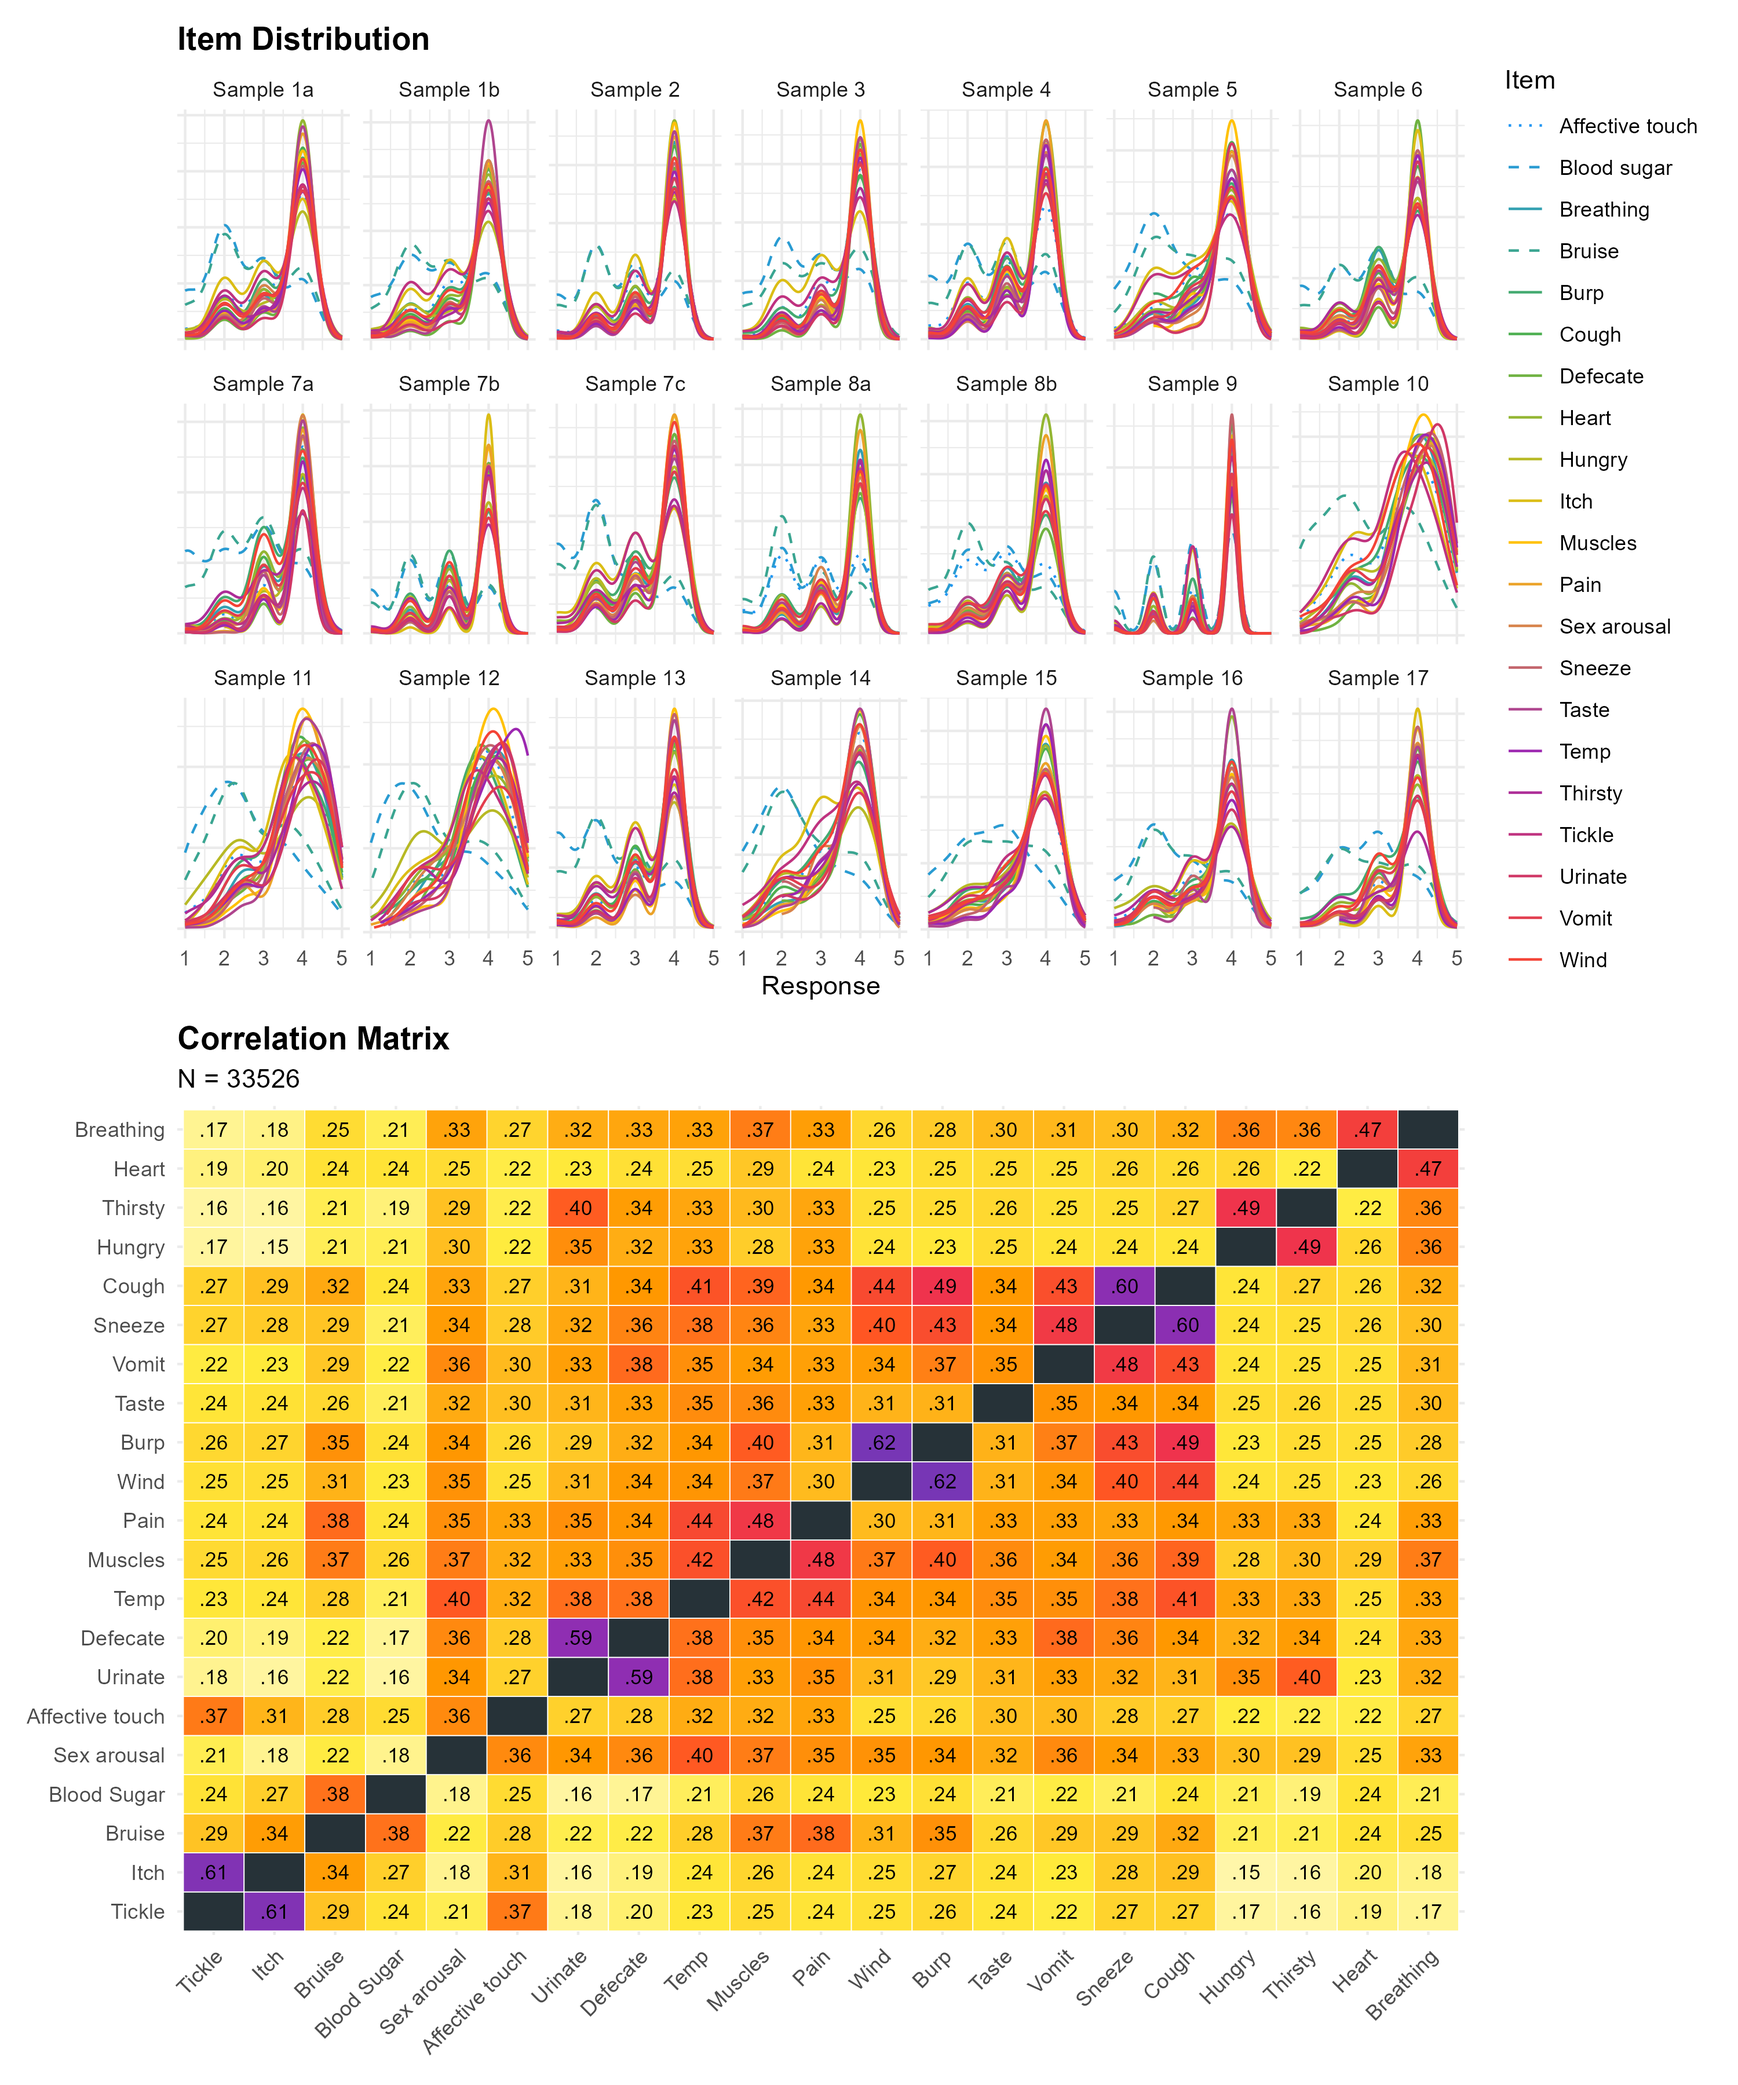
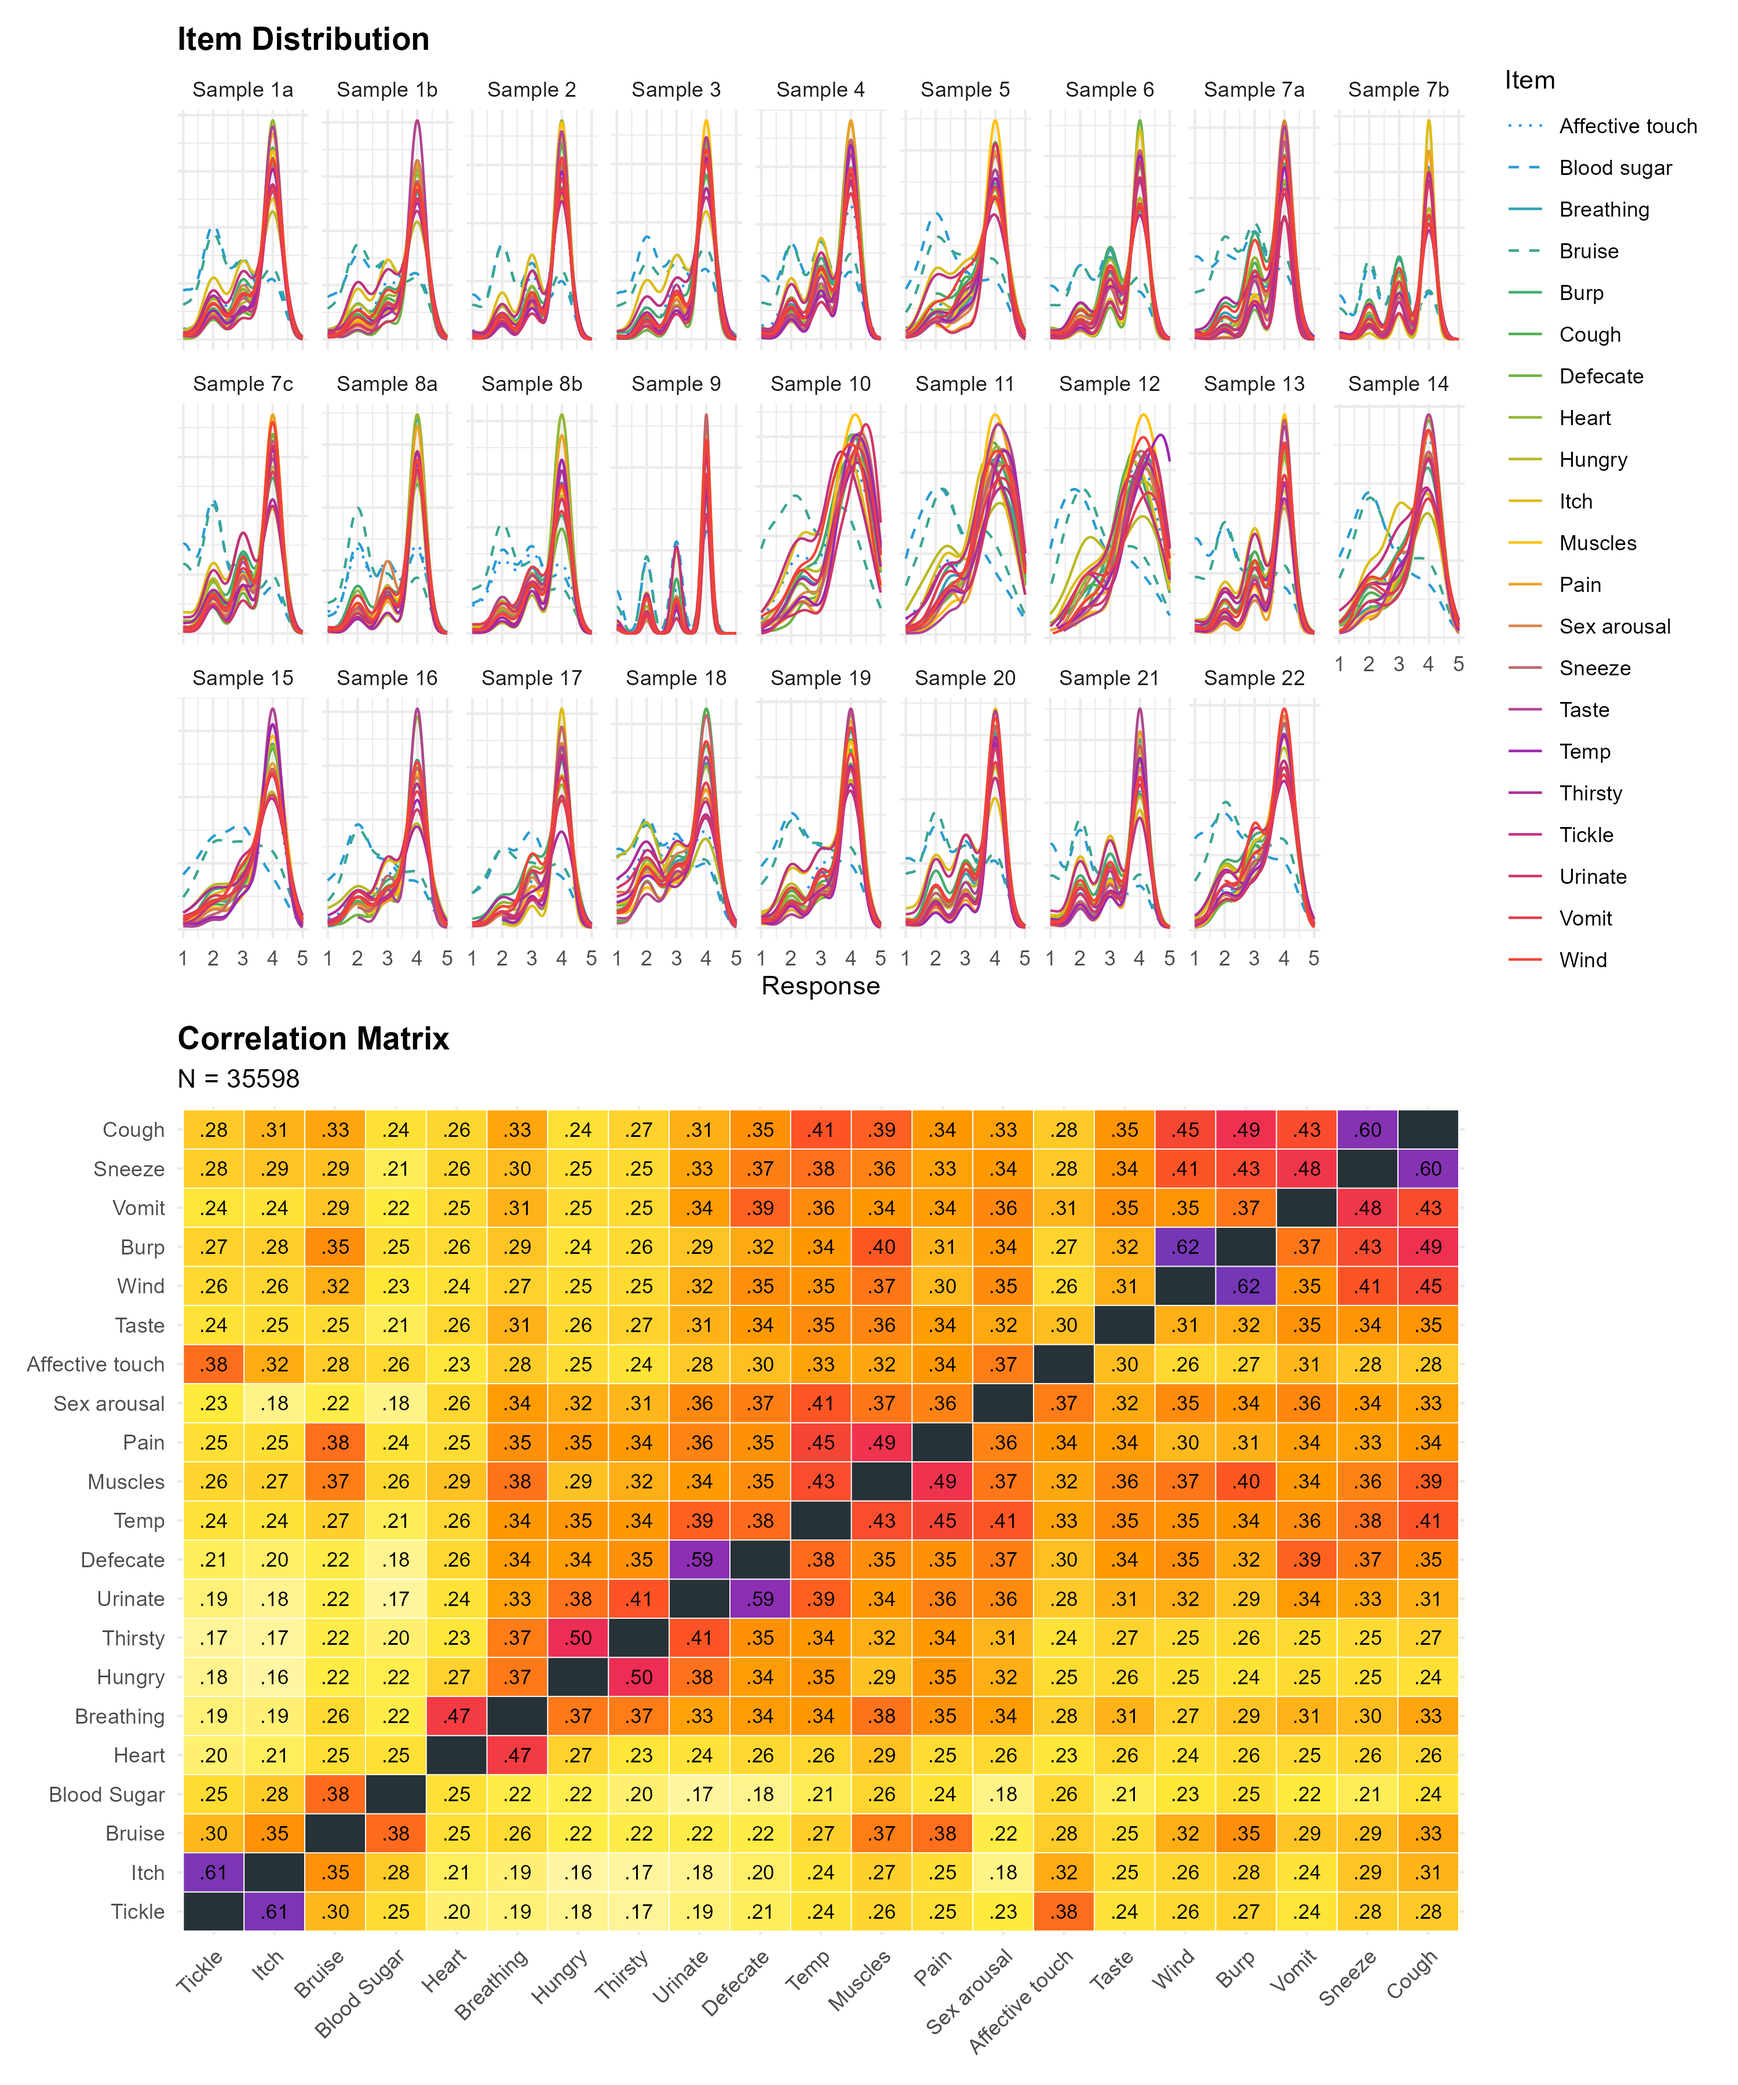
updated tables and figs

Changed region(s): [[0.031, 0.5289, 0.837, 0.9644], [0.093, 0.0311, 0.837, 0.4667], [0.465, 0.9333, 0.496, 0.9644]]

diff --git a/analysis/figures/table2.tex b/analysis/figures/table2.tex
@@ -1,4 +1,4 @@
-\begin{table}[t]
+\begin{table}
 \fontsize{7.0pt}{8.0pt}\selectfont
 \begin{tabular*}{\linewidth}{@{\extracolsep{\fill}}lrlrrl}
 \toprule
